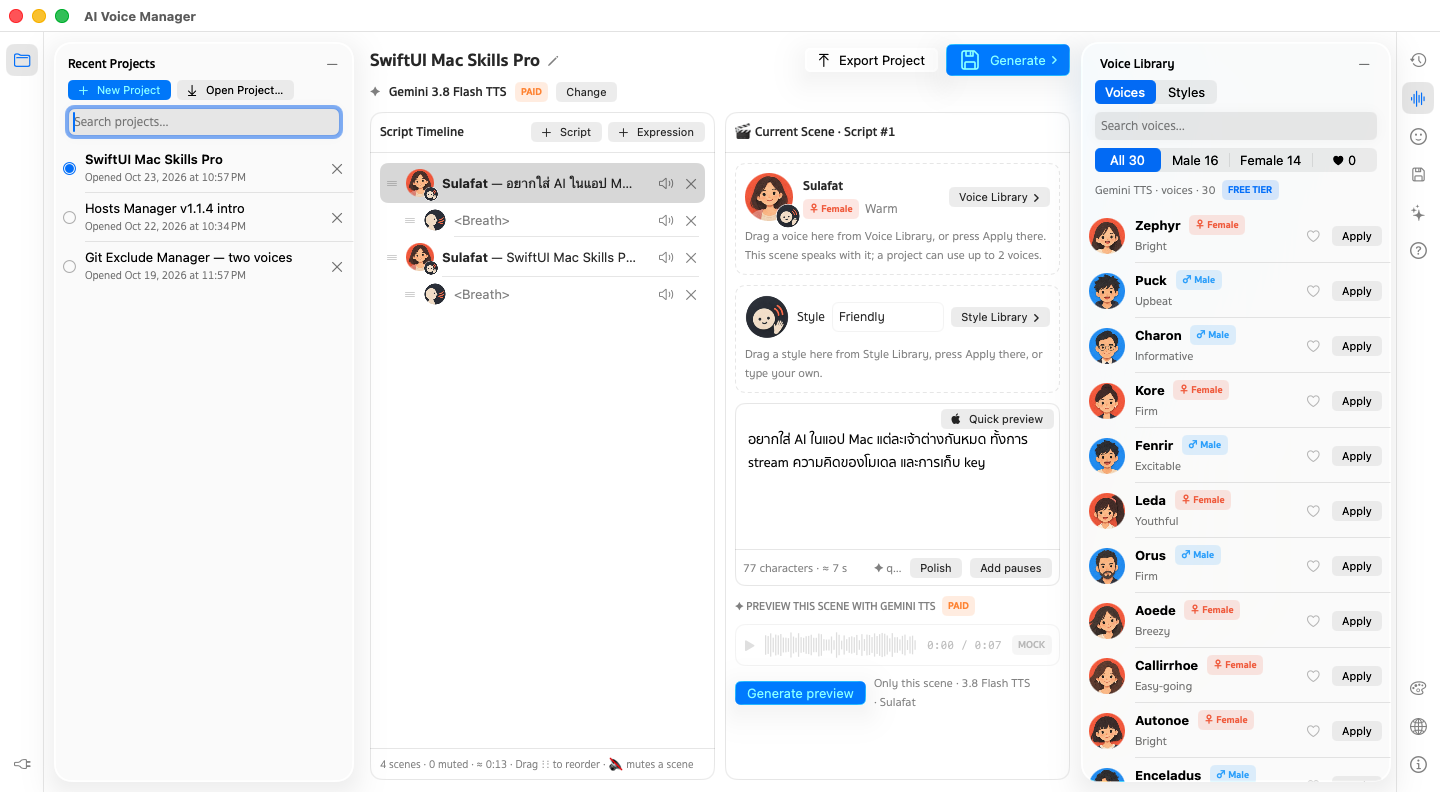
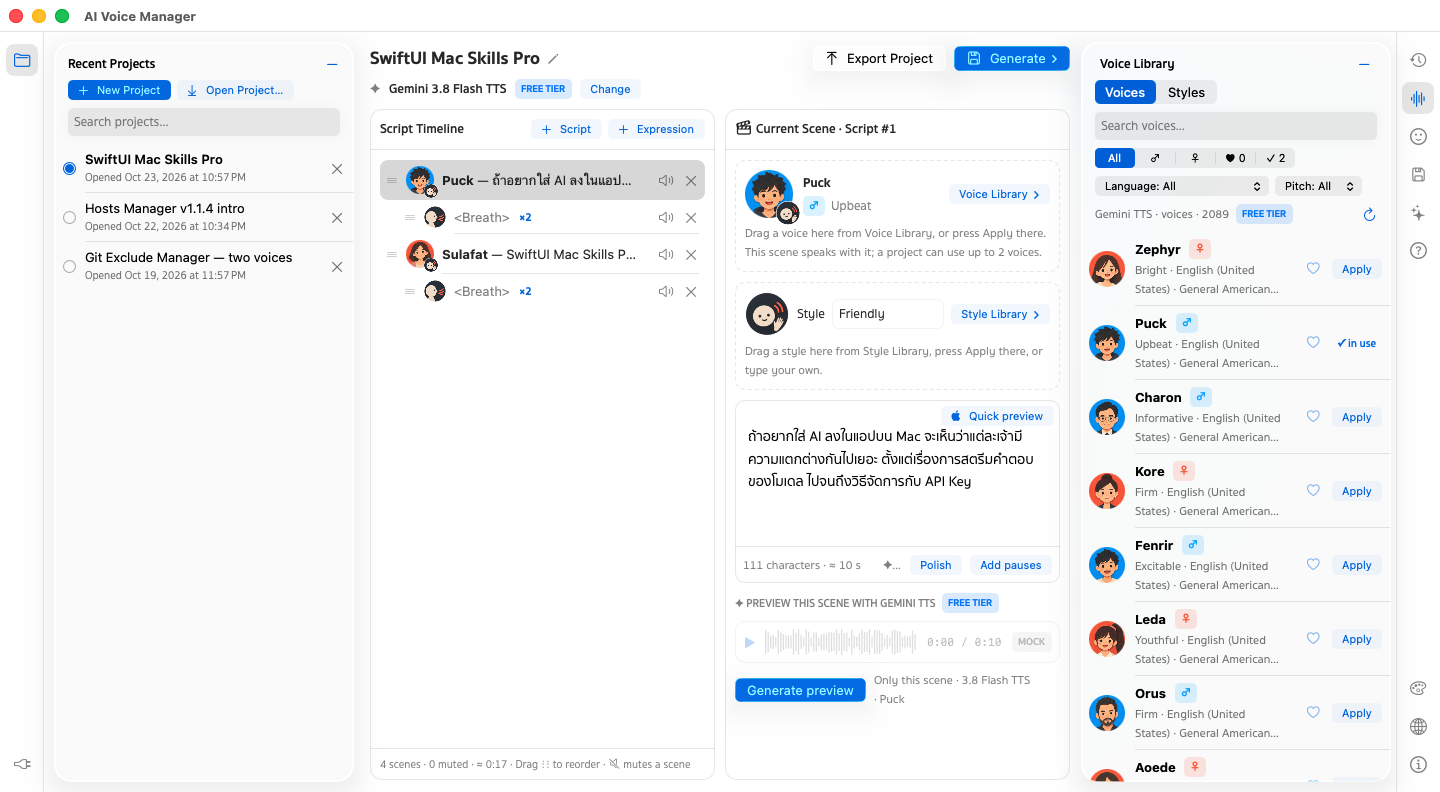
2026 Added Check for Updates (Github Page).

diff --git a/docs/privacy-policy/index.html b/docs/privacy-policy/index.html
@@ -41,11 +41,11 @@
 
     <section style="padding-top:0">
       <div class="wrap prose">
-        <p class="updated"><span class="en">Last updated</span><span class="th">อัปเดตล่าสุด</span> 2026-10-20</p>
+        <p class="updated"><span class="en">Last updated</span><span class="th">อัปเดตล่าสุด</span> 2026-10-29</p>
 
         <h2><span class="en">The app</span><span class="th">ตัวแอป</span></h2>
         <ul>
-          <li><span class="en"><strong>No accounts, analytics or tracking.</strong> The app has no telemetry, crash reporting or update checks. It does not contact any server of ours, because there isn't one.</span><span class="th"><strong>ไม่มีบัญชีผู้ใช้ ไม่มี analytics ไม่มีการติดตาม</strong> แอปไม่มี telemetry ไม่ส่งรายงาน crash และไม่เช็กอัปเดต ไม่ติดต่อเซิร์ฟเวอร์ของเรา เพราะเราไม่มีเซิร์ฟเวอร์</span></li>
+          <li><span class="en"><strong>No accounts, analytics or tracking.</strong> The app has no telemetry or crash reporting, and no server of ours to talk to. <strong>Check for Updates</strong> asks GitHub for the latest release only when you click it (or once a day if you turn on automatic checks in About); nothing about you is sent, though GitHub sees your IP address as with any web request.</span><span class="th"><strong>ไม่มีบัญชีผู้ใช้ ไม่มี analytics ไม่มีการติดตาม</strong> แอปไม่มี telemetry ไม่ส่งรายงาน crash และไม่มีเซิร์ฟเวอร์ของเราให้ติดต่อ <strong>ตรวจหาอัปเดต</strong> จะถาม GitHub ว่า release ล่าสุดคืออะไรเฉพาะตอนคุณกด (หรือวันละครั้งถ้าเปิดตรวจอัตโนมัติในหน้า About) ไม่มีข้อมูลของคุณถูกส่งไป แต่ GitHub จะเห็น IP ของคุณเหมือนทุกการเปิดเว็บ</span></li>
           <li><span class="en"><strong>Your hosts file stays local.</strong> /etc/hosts and its backups (in /Library/Application Support/HostsManager/Backups) never leave your Mac unless you export or send them yourself.</span><span class="th"><strong>ไฟล์ hosts อยู่ในเครื่อง</strong> /etc/hosts และไฟล์สำรอง (ใน /Library/Application Support/HostsManager/Backups) จะไม่ออกจากเครื่อง เว้นแต่คุณ export หรือส่งเอง</span></li>
           <li><span class="en"><strong>History pins</strong> (versions you pin, with their names) are saved in ~/Library/Application Support/HostsManager on your Mac. History itself is read from the backups above.</span><span class="th"><strong>เวอร์ชันที่ปักหมุดใน History</strong> (พร้อมชื่อที่ตั้ง) เก็บใน ~/Library/Application Support/HostsManager ในเครื่องคุณ ส่วนรายการ History อ่านจากไฟล์สำรองข้างต้น</span></li>
           <li><span class="en"><strong>Settings</strong> such as language, appearance, accent colour and the open side panel are stored in macOS user defaults on your Mac.</span><span class="th"><strong>การตั้งค่า</strong> เช่น ภาษา ธีม สี accent และแผงด้านข้างที่เปิดอยู่ เก็บใน user defaults ของ macOS ในเครื่องคุณ</span></li>
